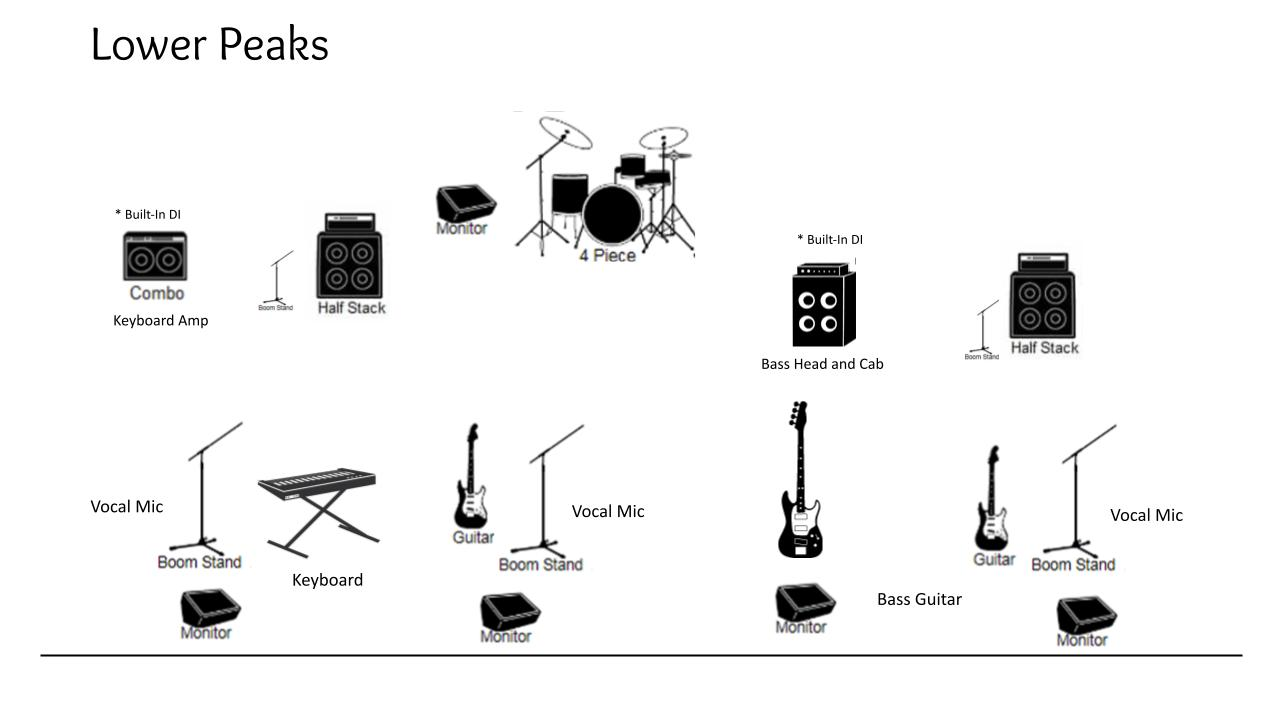
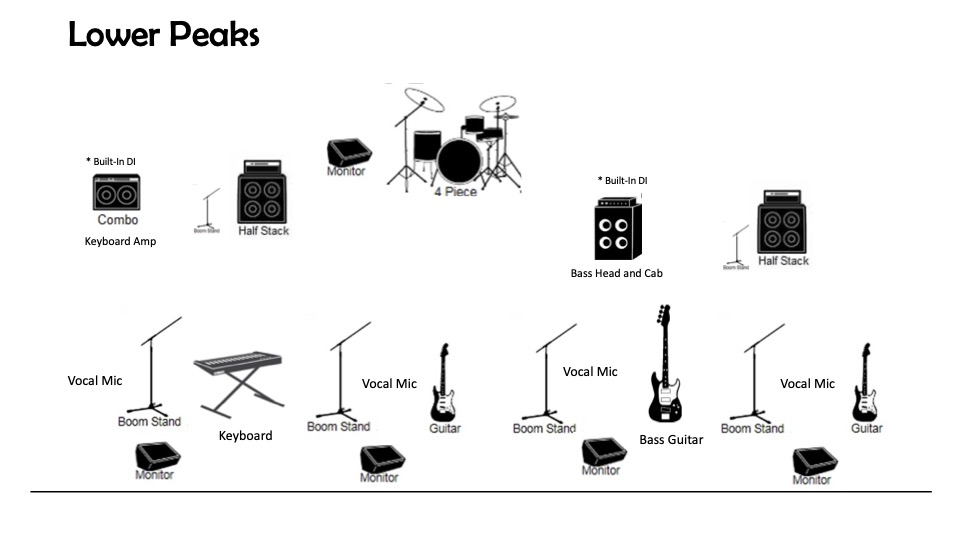
stage-plot update

diff --git a/epk.html b/epk.html
@@ -99,7 +99,7 @@
 										<article class="nospace">
 											<a href="images/stage-plot.jpg" class="image"><img src="images/stage-plot.jpg" alt="" /></a>
 											<a href="images/stage-plot.jpg" class="special">Download Stage Plot</a>
-											<p>Three microphones, two guitar amps, one bass amp, keyboard DI.</p>
+											<p>Four microphones, two guitar amps, one bass amp, keyboard DI.</p>
 										</article>
 									</section>
 								</div>
